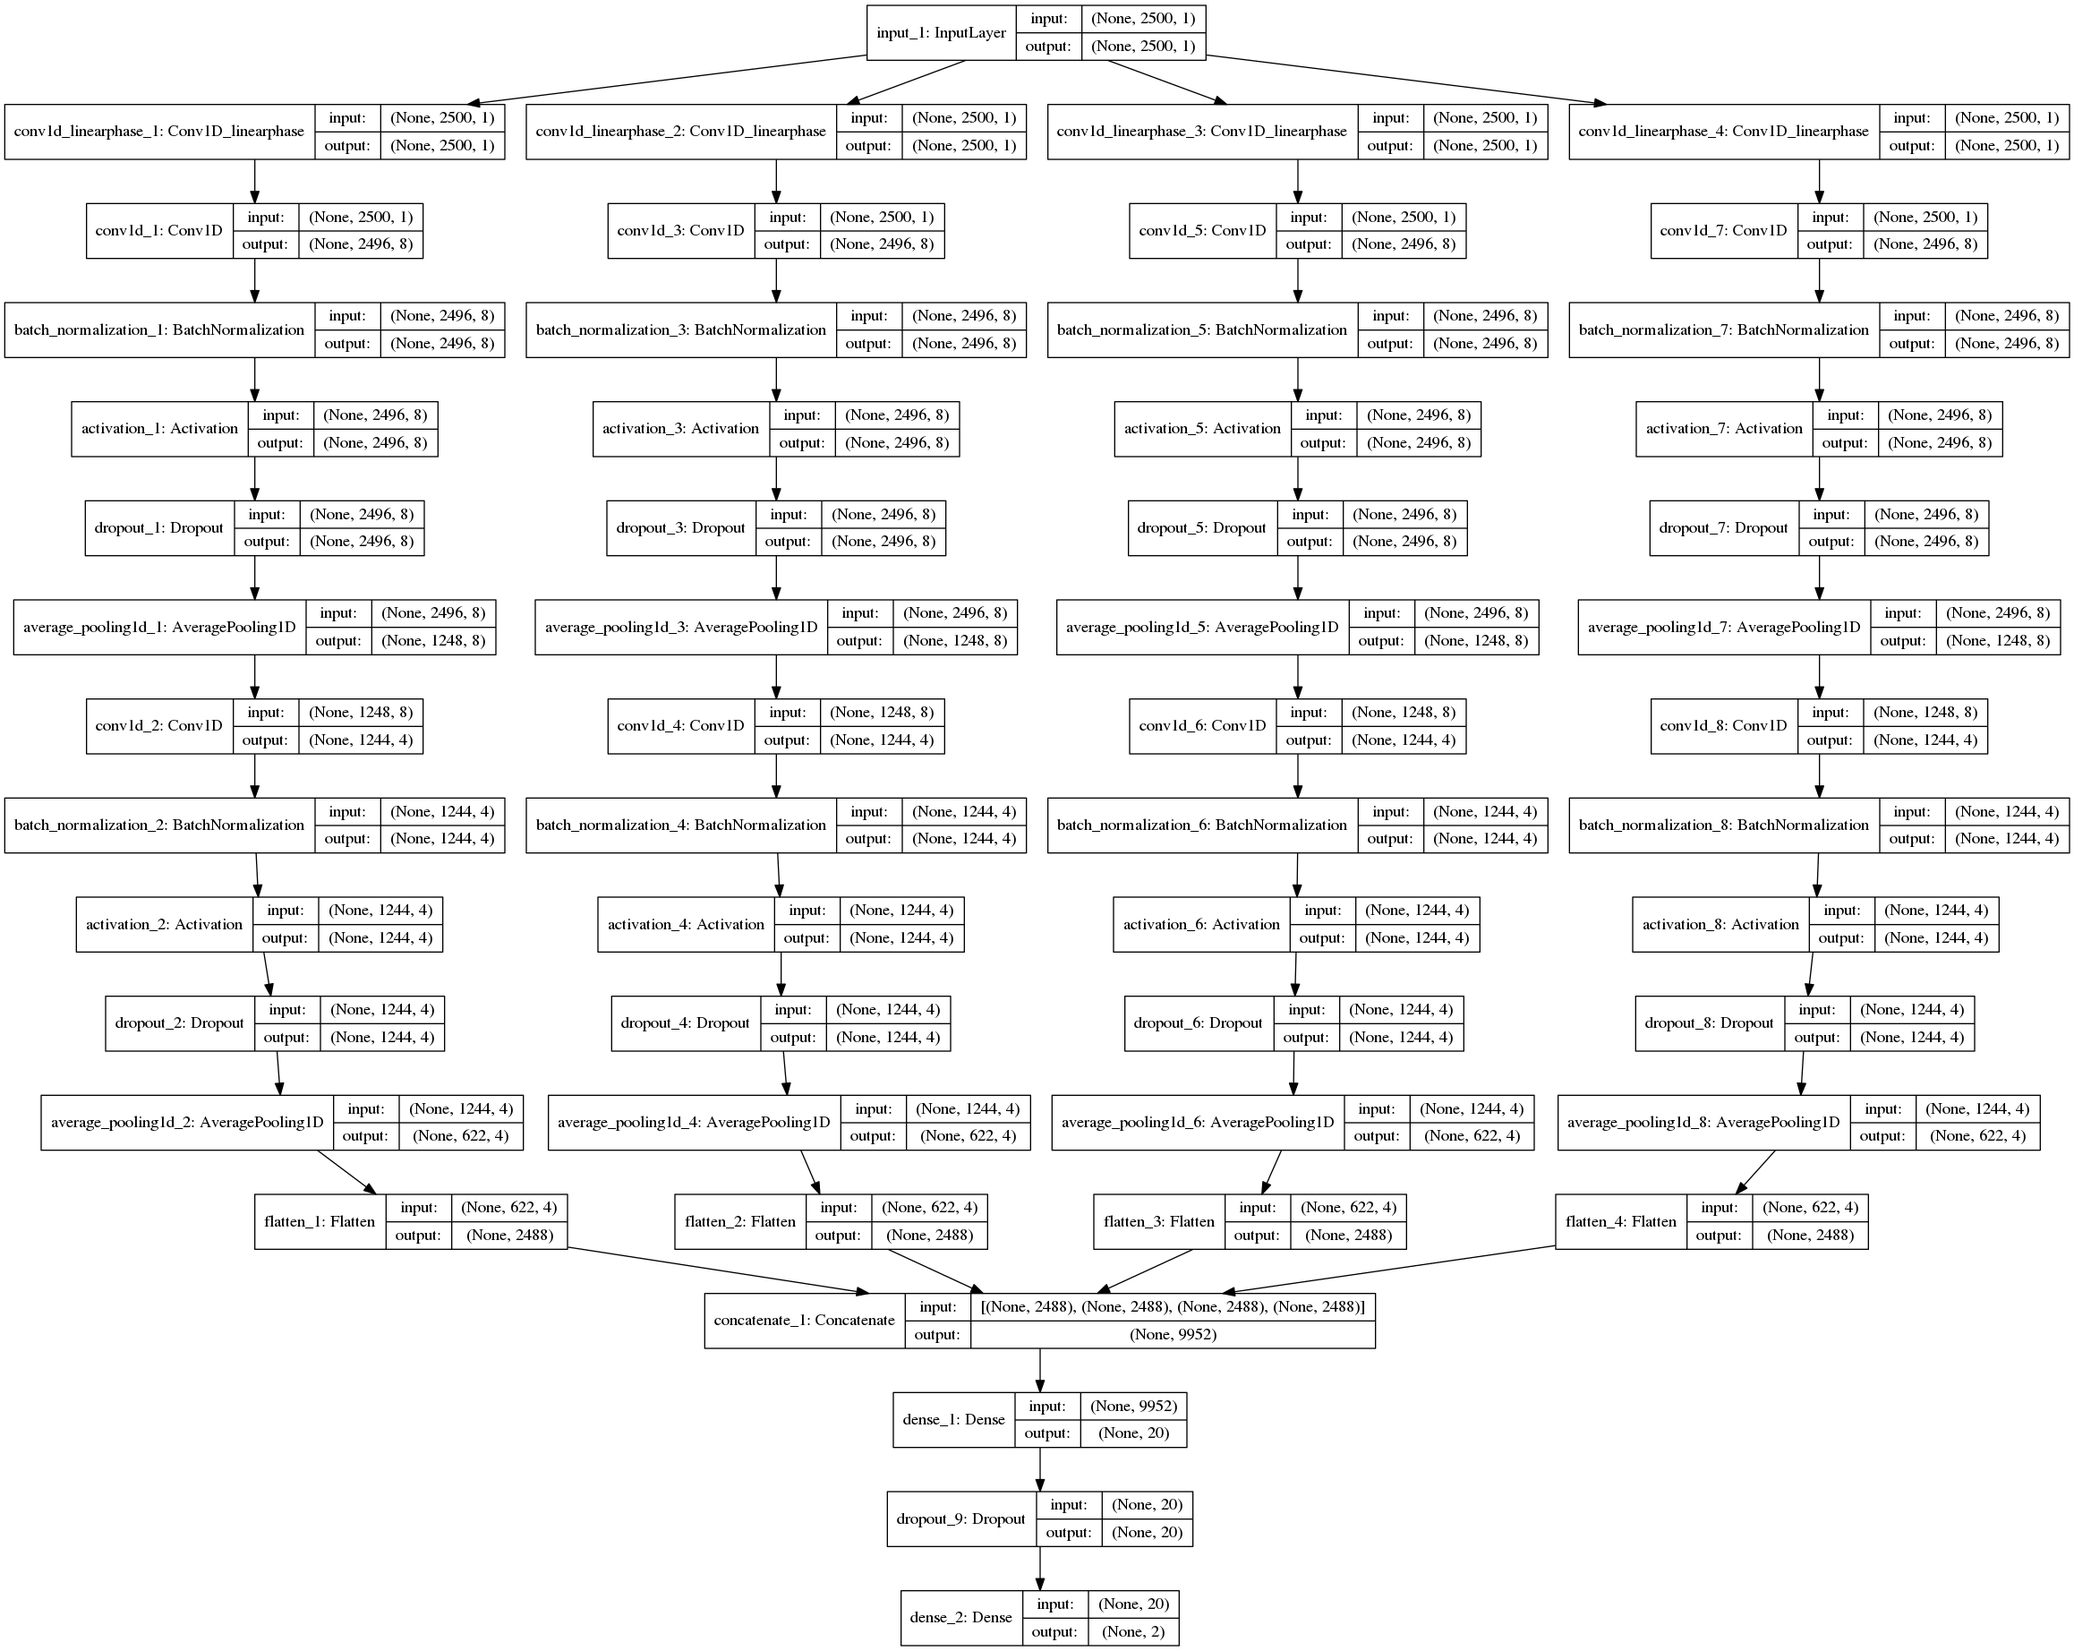
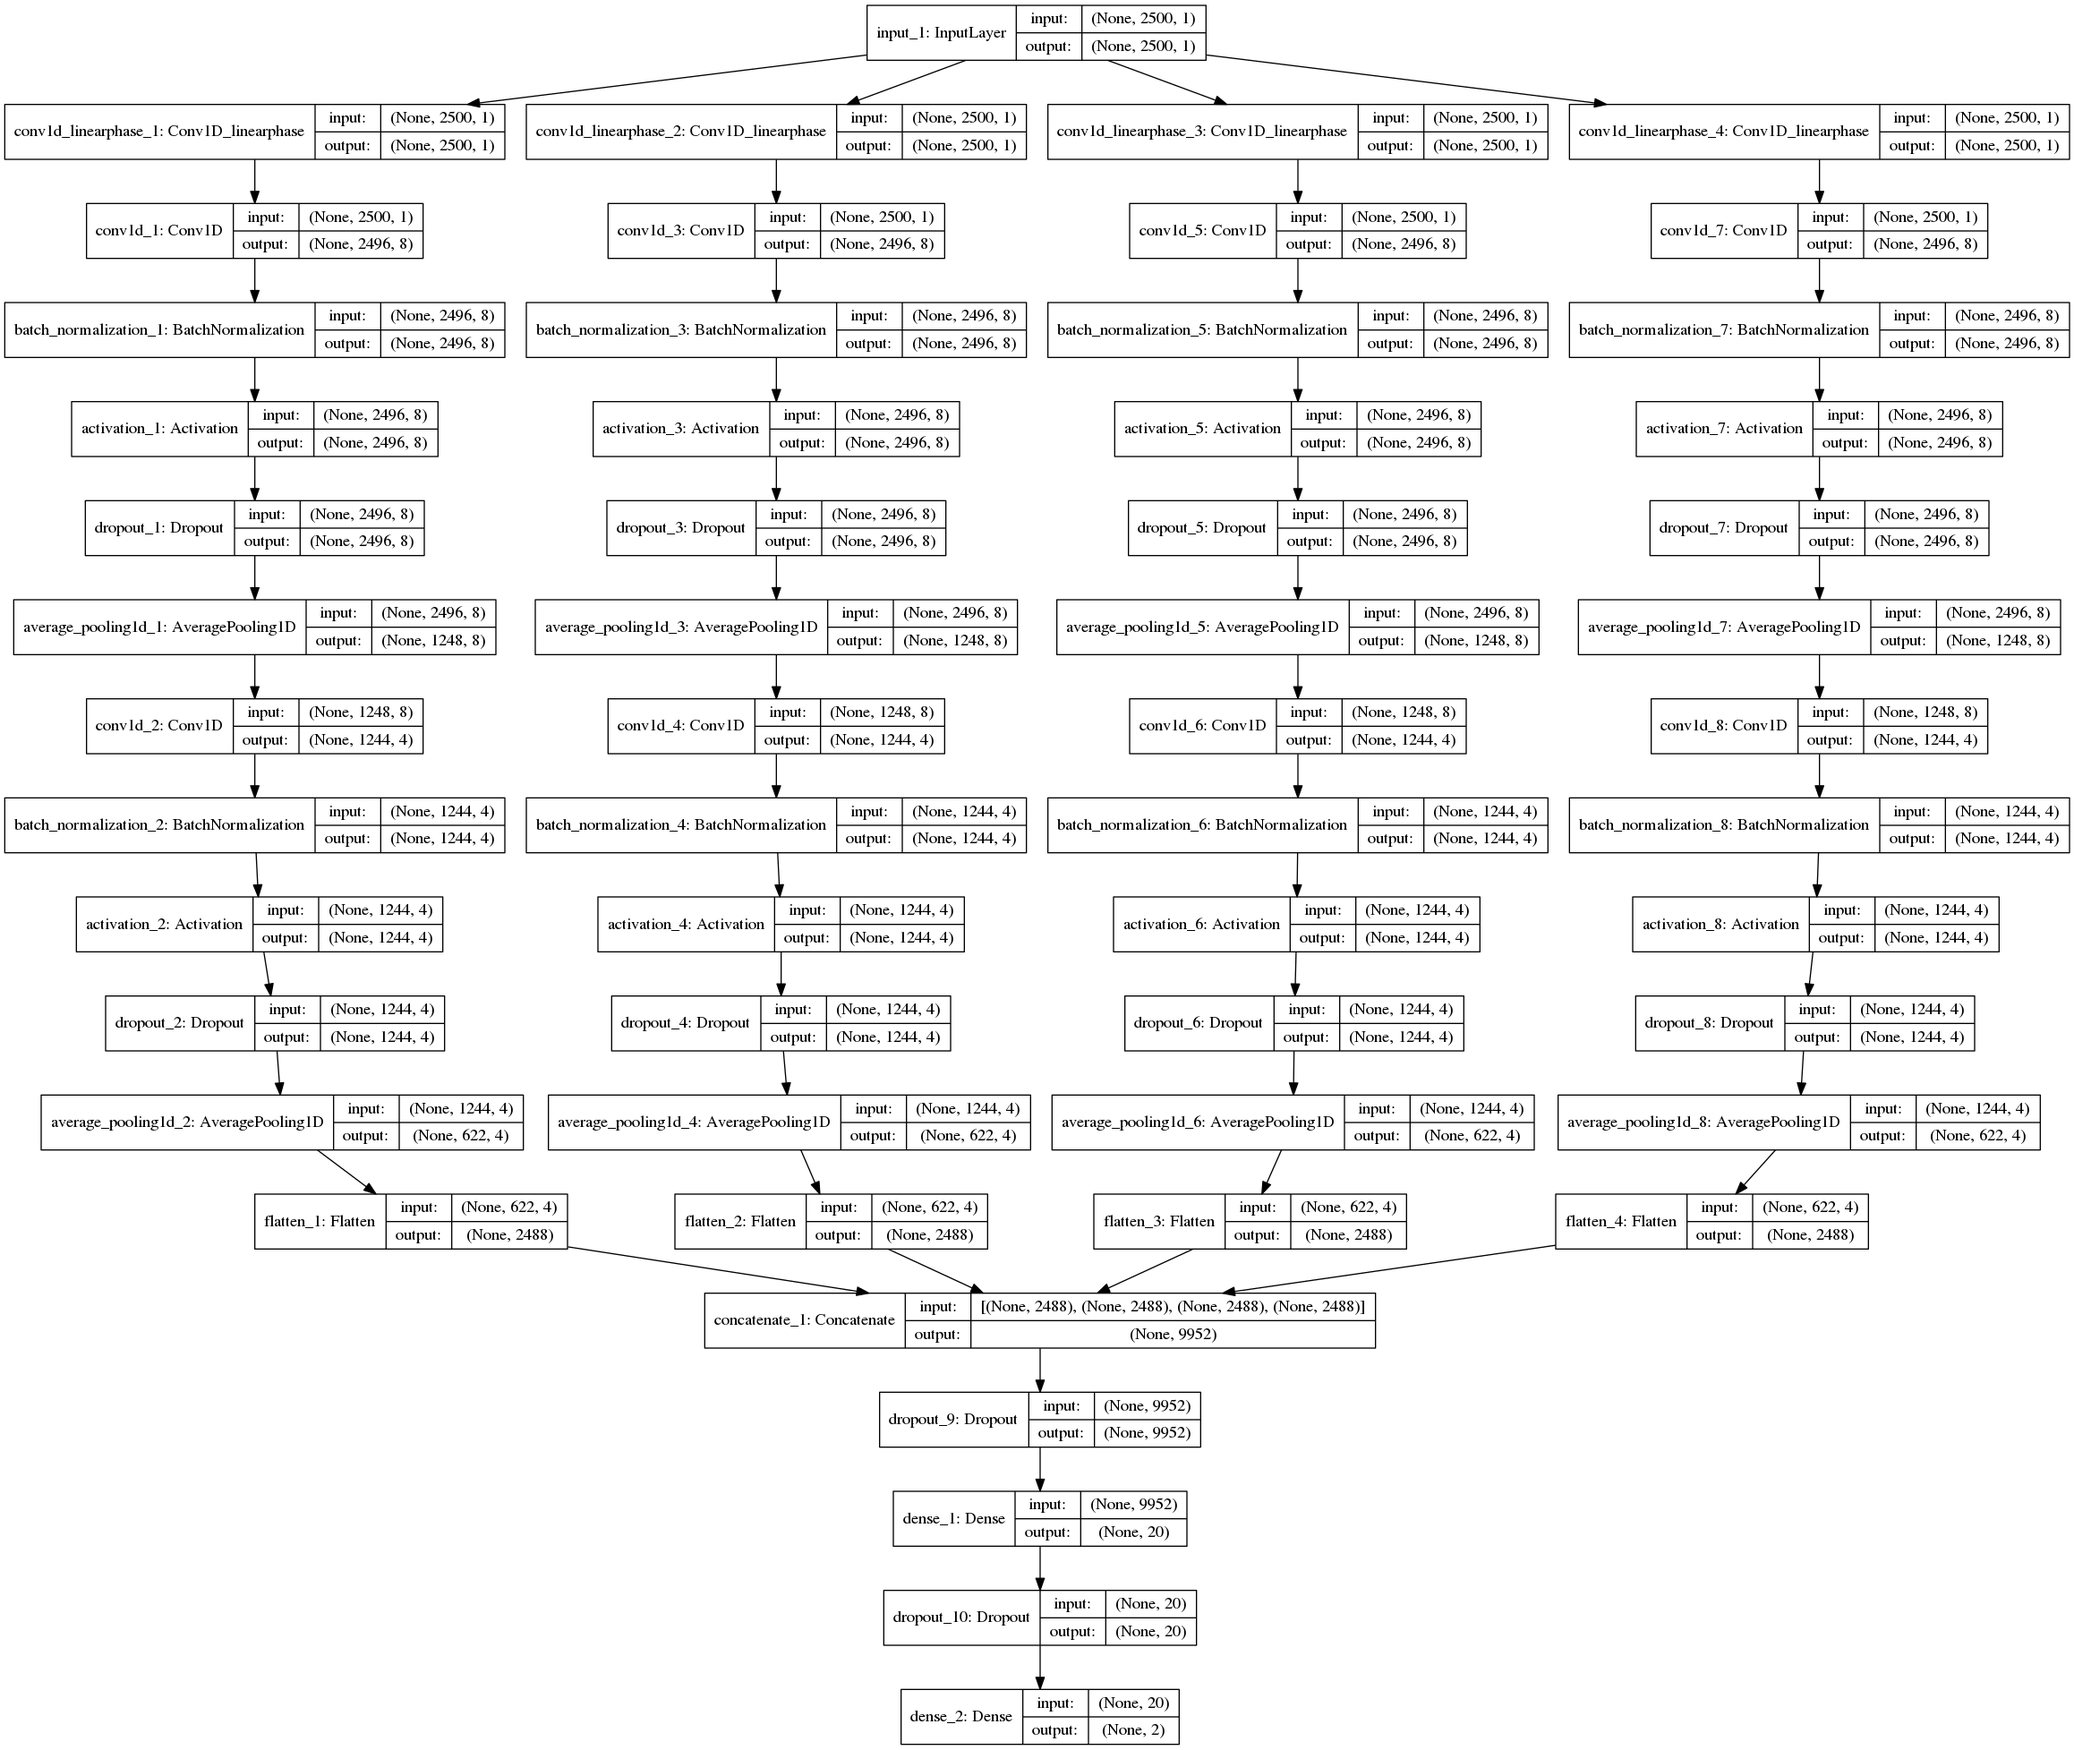
added dropout after flatten

Changed region(s): [[0.0, 0.0, 1.0, 1.0]]

diff --git a/codes/heartnet_v1.py b/codes/heartnet_v1.py
@@ -207,7 +207,7 @@ def heartnet(load_path,activation_function='relu', bn_momentum=0.99, bias=False,
     # t4 = Flatten()(t4)
 
     merged = Concatenate(axis=1)([t1, t2, t3, t4])
-
+    merged = Dropout(rate=dropout_rate_dense, seed=random_seed)(merged)
     merged = Dense(num_dense,
                    activation=activation_function,
                    kernel_initializer=initializers.he_normal(seed=random_seed),
@@ -453,7 +453,7 @@ if __name__ == '__main__':
         kernel_size = 5
         maxnorm = 10000.
         dropout_rate = 0.5
-        dropout_rate_dense = 0.3
+        dropout_rate_dense = 0.2
         padding = 'valid'
         activation_function = 'relu'
         subsam = 2
